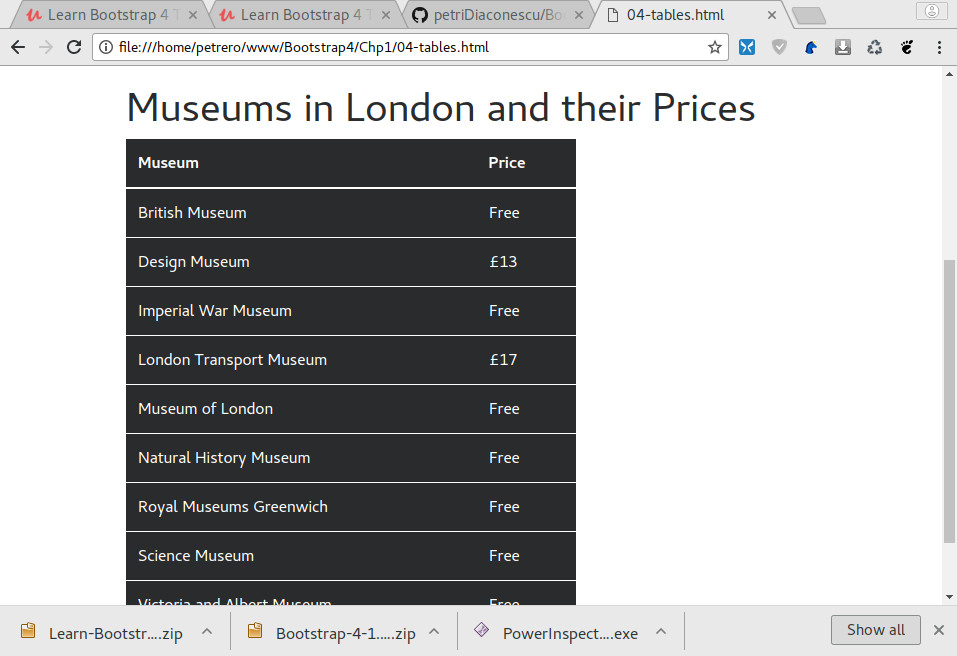
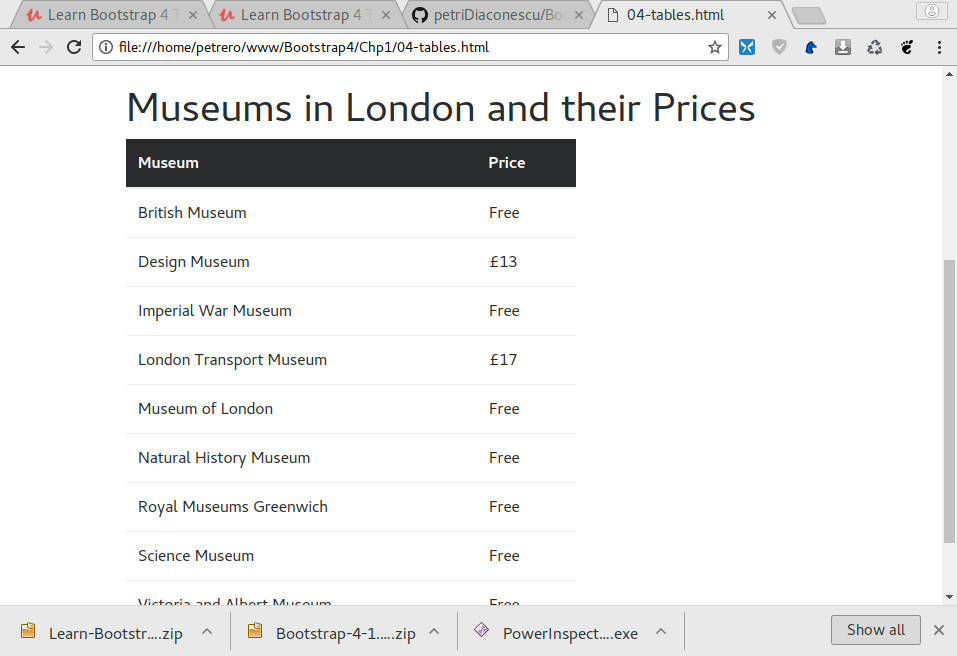
Inverse the colors only for one row in the table.

Changed region(s): [[0.1212, 0.2744, 0.6061, 0.9451]]

diff --git a/Chp1/04-tables.html b/Chp1/04-tables.html
@@ -28,9 +28,9 @@
         <h1>Museums in London and their Prices</h1>
         <div class="row">
           <div class="col-8">
-            <table class="table table-inverse">
+            <table class="table">
                 <caption>Museums in London</caption>
-                <thead>
+                <thead class="table-inverse">
                   <tr>
                     <th>Museum</th>
                     <th>Price</th>
